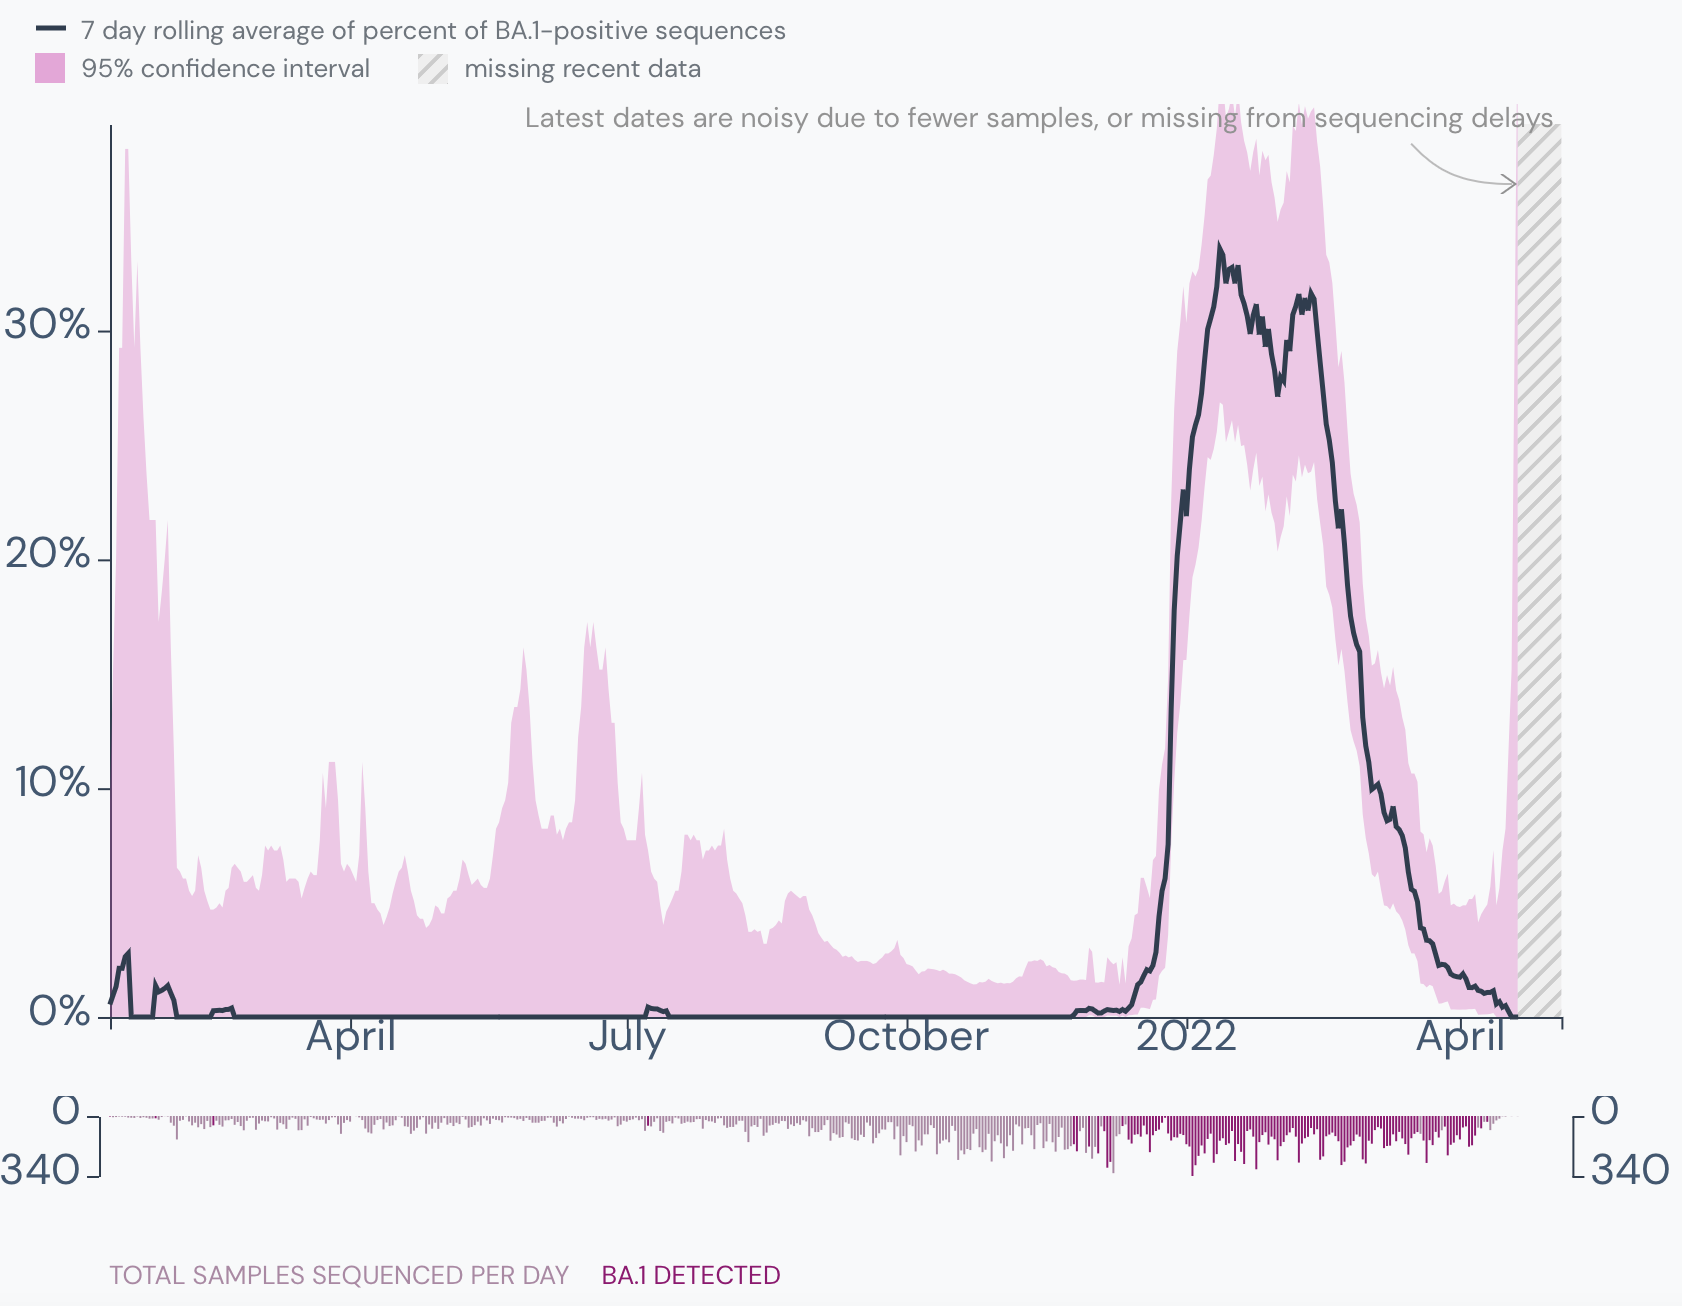
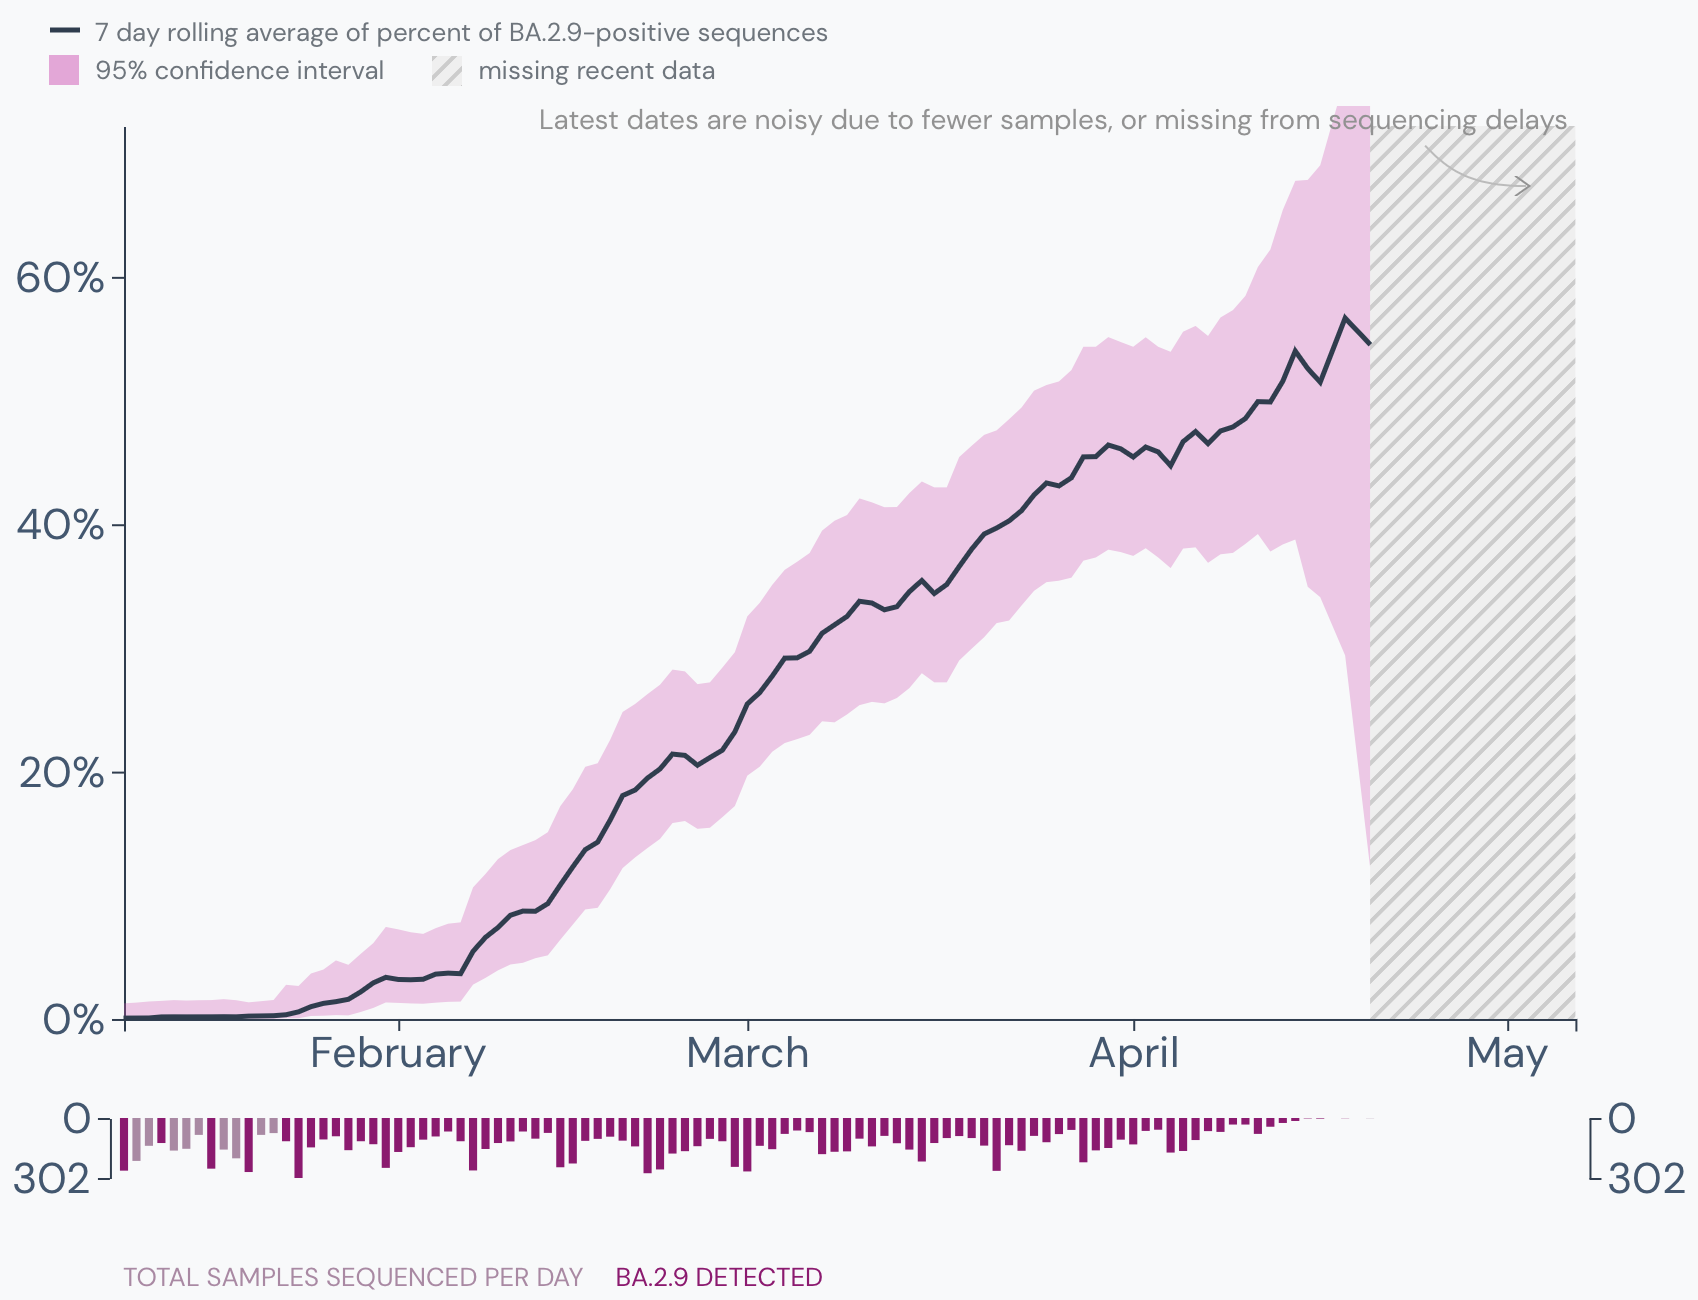
week 16 2

diff --git a/input/hmedova/shrnuti.html b/input/hmedova/shrnuti.html
@@ -15,14 +15,17 @@
     Zaznamenáno bylo {{LINEAGE_COUNTS}} linií SARS-CoV-2, 
     z&nbsp;toho dvě Varianty hodné pozornosti (VOC) dle stávající klasifikace ECDC.  
 
-    Ve sledovaném období převládají vzorky přiřazené k subvariantám VOC Omicron BA.2, BA.1.1 a BA.1, také byl v malé míře zaznamenán výskyt BA.3. Od 10. týdne nebyl zaznamenám výskyt varianty VOC Delta v sekvenovaných vzorcích.
-    
+    Ve sledovaném období převládají vzorky přiřazené k subvariantám VOC Omicron BA.2.9, BA.1.1 a BA.2. Od 10. týdne nebyl zaznamenám výskyt varianty VOC Delta v sekvenovaných vzorcích.
+
+     <span style="display:block; height: 15px;"></span>
+
+V České republice se začínají objevovat rekombinantní varianty koronaviru. V současné datové uzávěrce je 37 izolátů pravděpodobně rekombinantních, ve většině případů jde o rekombinanty variant BA.1 a BA.2. Vzhledem k obtížnosti přiřazení rekombinantních variant a rychlému vývoji softwaru určeného k tomuto účelu uvádíme pouze, že dle nexclade se jedná o varianty XM, XT, XQ, XE, XN, XU a XS (od nejčetnějších k nejméně četným). 
 
 <span style="display:block; height: 15px;"></span>
     Varianty jsou členěny dle PANGO klasifikace <a href="https://cov-lineages.org/"><nobr>https://cov-lineages.org/</nobr></a>, 
     jejich podrobný popis je uveden v Příloze totoho dokumentu a na webových stránkách <a href="http://virus.img.cas.cz/"><nobr>http://virus.img.cas.cz/</nobr></a>. 
     Dochází ke změnám klasifikace varianty Omicron (B.1.1.529) a jejich podvariant BA.1 a BA.2. 
-    Díky probíhajícím změnám v klasifikaci nemusí být některé sekvence přiřazeny do PANGO variant a jsou označeny jako "None". V současném datasetu se objevilo také několik rekombinantních variant, nejvíce rekombinant BA.1.1 a BA.2 označený jako XM. U rekombinantních variant však bývá jejich přiřazení PANGO linií problematické. 
+    Díky probíhajícím změnám v klasifikaci nemusí být některé sekvence přiřazeny do PANGO variant a jsou označeny jako "None". 
 
     <span style="display:block; height: 15px;"></span>
     

diff --git a/input/hmedova/AY_43.html b/input/hmedova/AY_43.html
@@ -1,27 +1,13 @@
 <div>
-    V České republice od začátku roku 2022 převládá VOC Omicron, v rámci současné datové zprávy převážně BA.1, BA.1.1 a BA.2, od 9. týdne pak převládá varianta BA.2. U varianty BA.1 jsou velmi často pozorovány mutace S:K417N, S:N440K a S:G446S.
+    V České republice od začátku roku 2022 převládá VOC Omicron, v rámci současné datové zprávy převážně BA.2.9, BA.1.1 a BA.2.
 
    <span style="display:block; height: 25px;"></span>
-    
-    
-<div class="figure">
-        <img src="{{obrazek(template, 'genes-map-ba1.png')}}" >
-        <div class="legenda">
-            <i>Poloha mutací BA.1. Převzato z&nbsp;<a href="https://outbreak.info/situation-reports?pango=BA.1">outbreak.info</a>.</i>
-        </div>
-    </div>  
-<div class="figure">
-        <img src="{{obrazek(template, 'genes-map-ba2.png')}}" >
-        <div class="legenda">
-            <i>Poloha mutací BA.2. Převzato z&nbsp;<a href="https://outbreak.info/situation-reports?pango=BA.2">outbreak.info</a>.</i>
-        </div>
-    </div>  
-<div>
+
 <h5>Časový přehled výskytu nejčastějších variant</h5>
  <div class="figure">
         <img src="{{obrazek(template, 'dailyprevalence_omicron.png')}}" style = "max-height: 11cm">
         <div class="legenda">
-            <i>Přehled výskytu podvarianty Omicron BA.1 v České republice. Převzato z&nbsp;<a href="https://outbreak.info/situation-reports?pango=BA.1&selected=CZE&loc=USA&loc=USA_US-CA&loc=CZE&overlay=false">outbreak.info</a>.</i>
+            <i>Přehled výskytu podvarianty Omicron BA.2.9 v České republice. Převzato z&nbsp;<a href="https://outbreak.info/situation-reports?pango=BA.2.9&selected=CZE&loc=USA&loc=USA_US-CA&loc=CZE&overlay=false">outbreak.info</a>.</i>
         </div>
 </div>
  <div class="figure">

diff --git a/input/kolarmi/AAmutations-regions.html b/input/kolarmi/AAmutations-regions.html
@@ -7,8 +7,7 @@
     V pravé části grafu jsou znázorněny substituce a delece ve virových proteinech charakteristické pro danou variantu. 
  
     Řádek "Další mutace" ukazuje střední počet mutací, které nejsou znázorněny v&nbsp;heatmapě, 
-    ve vzorcích z daného kraje. Ukazuje tak mutační nálož nad rámec mutací uvedených v&nbsp;heatmapě.
-    <br>Mutace jsou uvedeny ve formátu: <br>
+    ve vzorcích z daného kraje. Ukazuje tak mutační nálož nad rámec mutací uvedených v&nbsp;heatmapě. Data z Libereckého kraje jsou zatížena chybou v sekvenci, kterou dále vyšetřujeme. Nepředpokládáme, že by se varianty v Libereckém kraji měly výrazněji odlišovat od ostatních krajů.    <br>Mutace jsou uvedeny ve formátu: <br>
     &lt;protein&gt;:&lt;aminokyselina&nbsp;v&nbsp;referenční&nbsp;sekvenci&gt;&lt;pozice&nbsp;v&nbsp;proteinu&gt;&lt;aminokyselina&nbsp;v&nbsp;mutované sekvenci&gt;&lt;-&gt;. 
     <br>Výchozí data jsou uvedena v&nbsp;Tabulce&nbsp;5.<br>
     

diff --git a/input/mtomkova/popis-variant.html b/input/mtomkova/popis-variant.html
@@ -28,7 +28,7 @@
 
 <div>
     <h4 style=line-height:15px ">Přehled Variant hodných pozornosti (VOC)</h4>   
-    <h5 style=line-height:10px ">Omicron (B.1.1.529)</h5>
+    <h5 style=line-height:10px ">Omicron (B.1.1.529, BA.1, BA.2)</h5>
 </div>
 
    Zastoupení VOC varianty Omicron v&nbsp;Evropě roste od prosince 2021, v průběhu počátku roku 2022 se tato varianta stala dominantní. 
